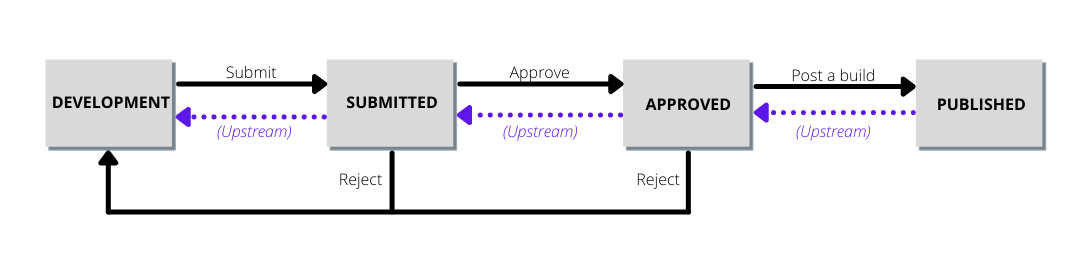
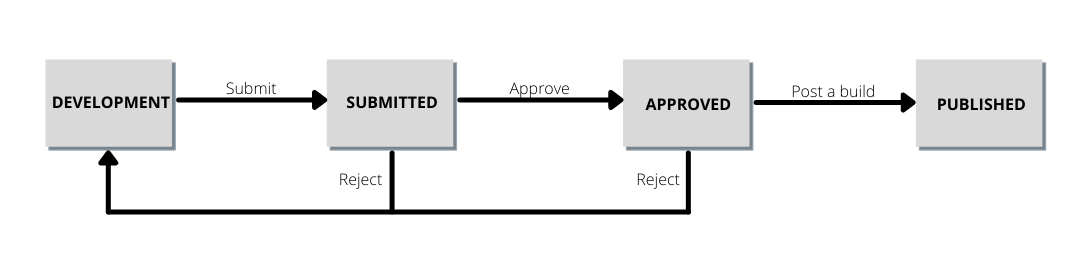
changes re: feedback

diff --git a/help/launch-reference/publishing/publishing-flow.md b/help/launch-reference/publishing/publishing-flow.md
@@ -38,7 +38,7 @@ These four states are represented as columns within the **[!UICONTROL Publishing
 
 ![](./assets/approval-workflow/flow-ui.png)
 
-Specific actions must be taken to move a library between these states. The following diagram outlines each action that moves a library between states, as well as the contrasting flow of the [upstream](#upstream) that affects the contents of each library depending on where they are in the publishing flow:
+Specific actions must be taken to move a library between these states. The following diagram outlines each action that moves a library between states:
 
 ![](./assets/approval-workflow/library-state.png)
 
@@ -88,7 +88,7 @@ Libraries under the [!UICONTROL Published] column are live on the production env
 
 After you have published your first library, it becomes important to understand the role of the upstream as you move newer libraries through the publishing flow.
 
-If a library is currently in the [!UICONTROL Development], [!UICONTROL Submitted], or [!UICONTROL Approved] stage, that library will inherit the rules, data elements, and extensions of any libraries that are on the upstream. These inherited resources constitute a "baseline" for each library as they move through the publishing flow. Essentially, you can think of each new library simply as a series of changes to the baseline that is established by the upstream. This ensures that nothing gets unexpectedly overwritten from a previous library when a new iteration is published.
+If a library is currently in the [!UICONTROL Development], [!UICONTROL Submitted], or [!UICONTROL Approved] stage, that library will inherit the rules, data elements, and extensions of any libraries that are upstream. These inherited resources constitute a "baseline" for each library as they move through the publishing flow. Essentially, you can think of each new library simply as a series of changes to the baseline that is established by the upstream. This ensures that nothing gets unexpectedly overwritten from a previous library when a new iteration is published.
 
 What is included in the upstream depends on the current stage of the library. For example, libraries in the [!UICONTROL Approved] column only inherit resources from the [!UICONTROL Published] library, whereas libraries under [!UICONTROL Development] inherit resources from all other columns.
 

diff --git a/help/launch-reference/managing-resources/extensions/extension-upgrade.md b/help/launch-reference/managing-resources/extensions/extension-upgrade.md
@@ -53,4 +53,4 @@ From the [!UICONTROL Edit Library] screen, you can use the "[!UICONTROL Add All 
 >
 >It is possible for extension developers to add new configuration items to their extension views in order to enable new functionality.  If you see build failures after upgrading to a new extension version - and you have isolated to build failures to that extension -  then the first thing to do is go to the extension's Configure page and be sure to Save (even if you didn't change anything).  Then add the new change to your library and try to build again.
 
-After you have added the extension upgrade to your library, you can follow the steps outlined in [Approval Workflow](../../publishing/publishing-flow.md) to publish your library through to Production.
+After you have added the extension upgrade to your library, you can follow the steps outlined in [publishing flow](../../publishing/publishing-flow.md) to publish your library through to Production.
